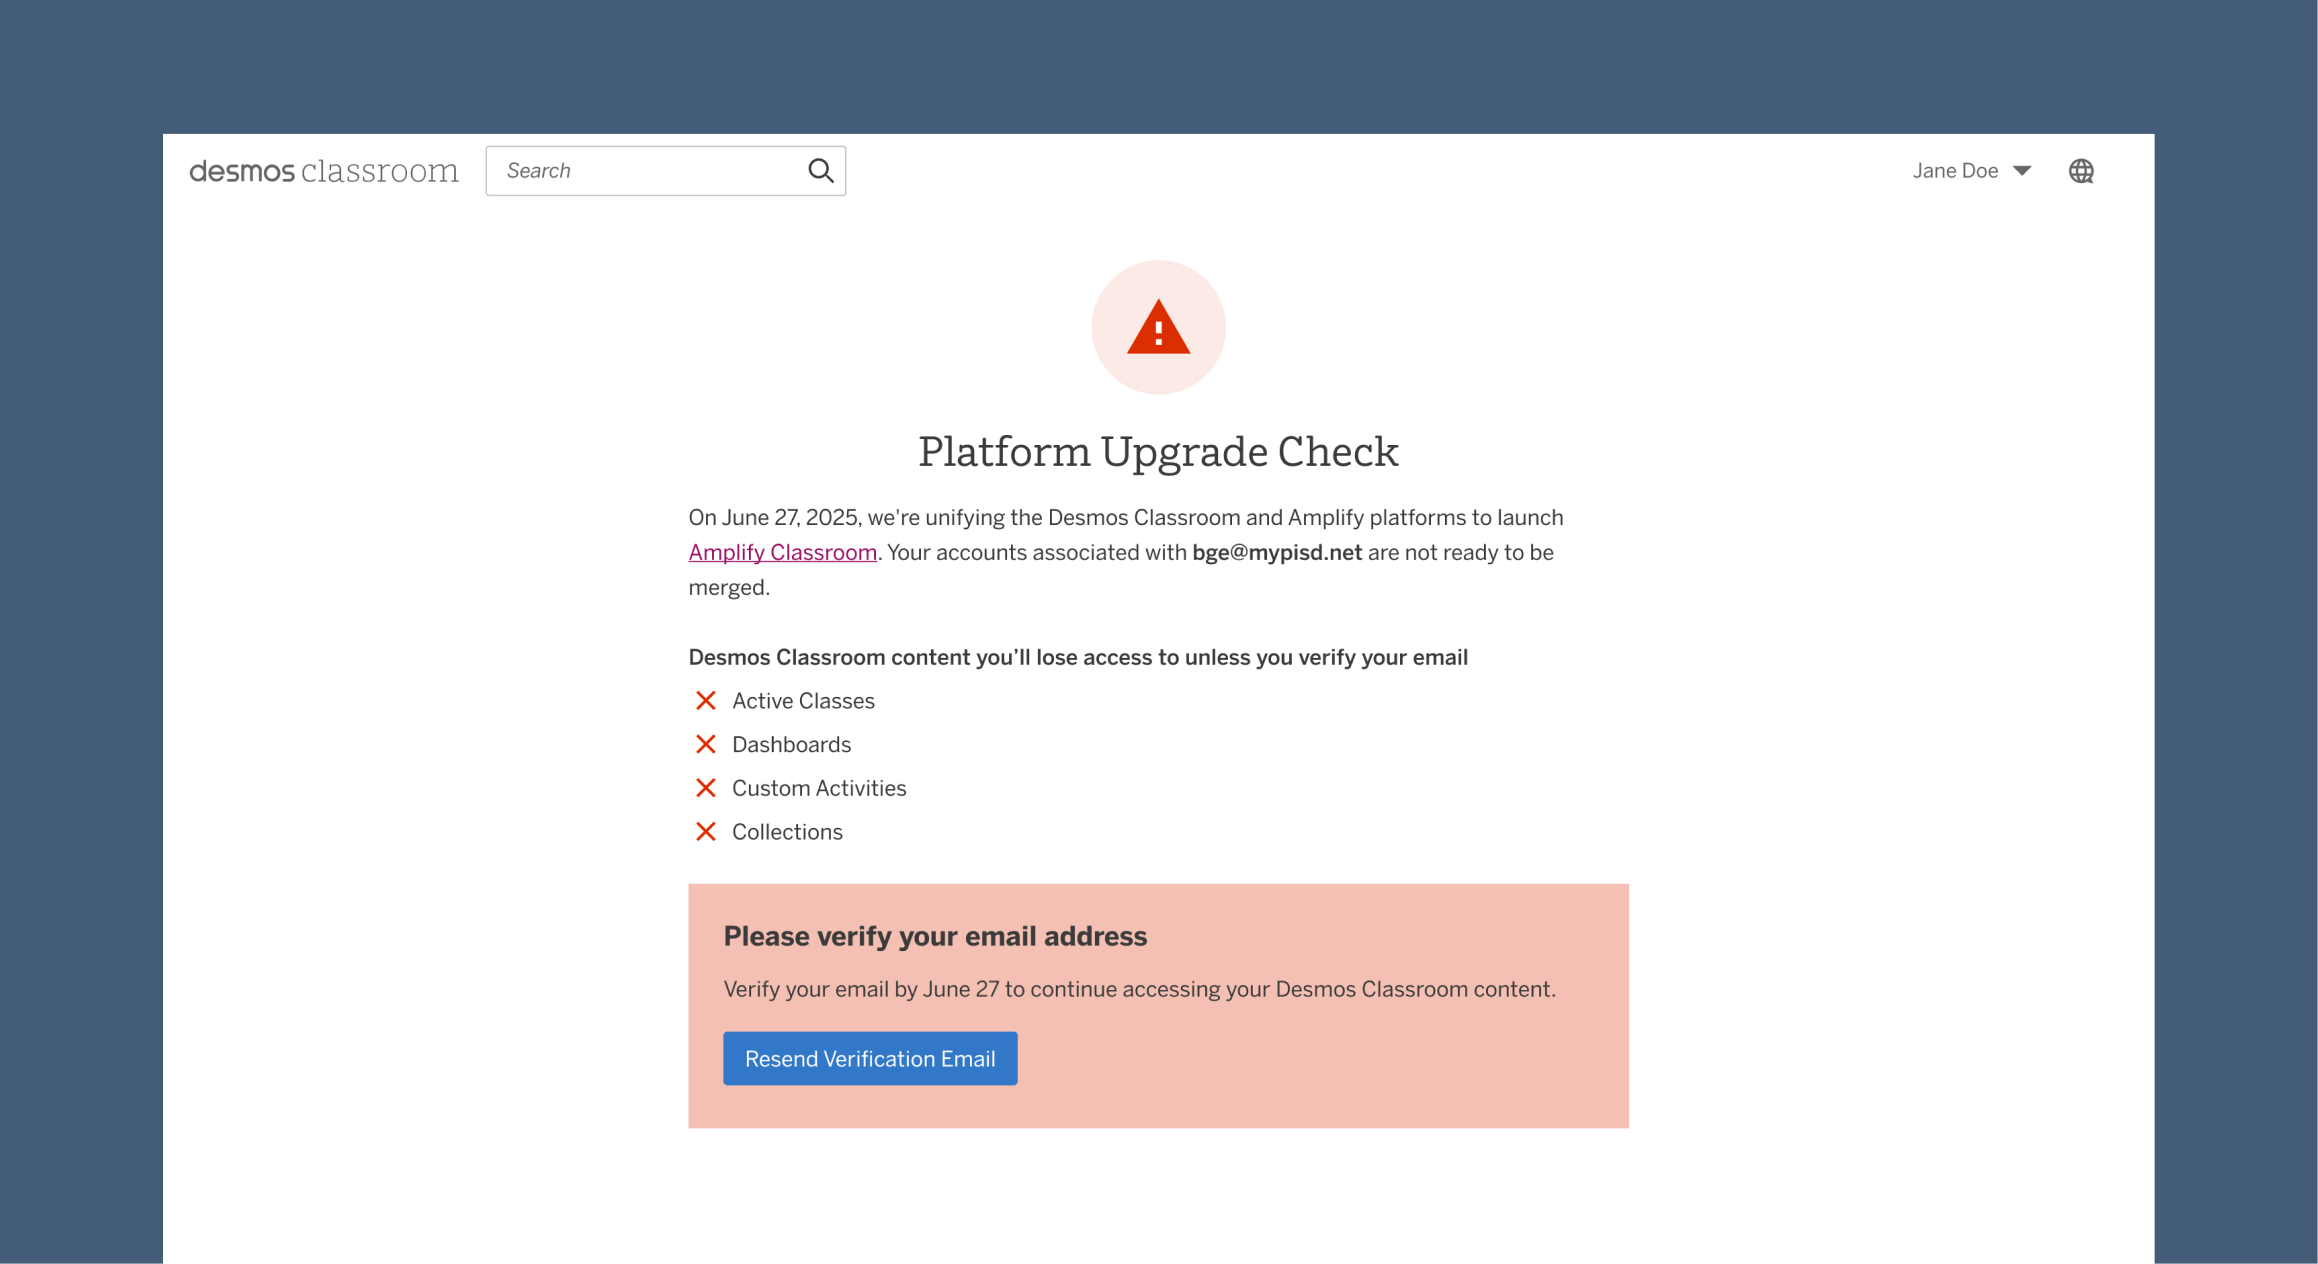
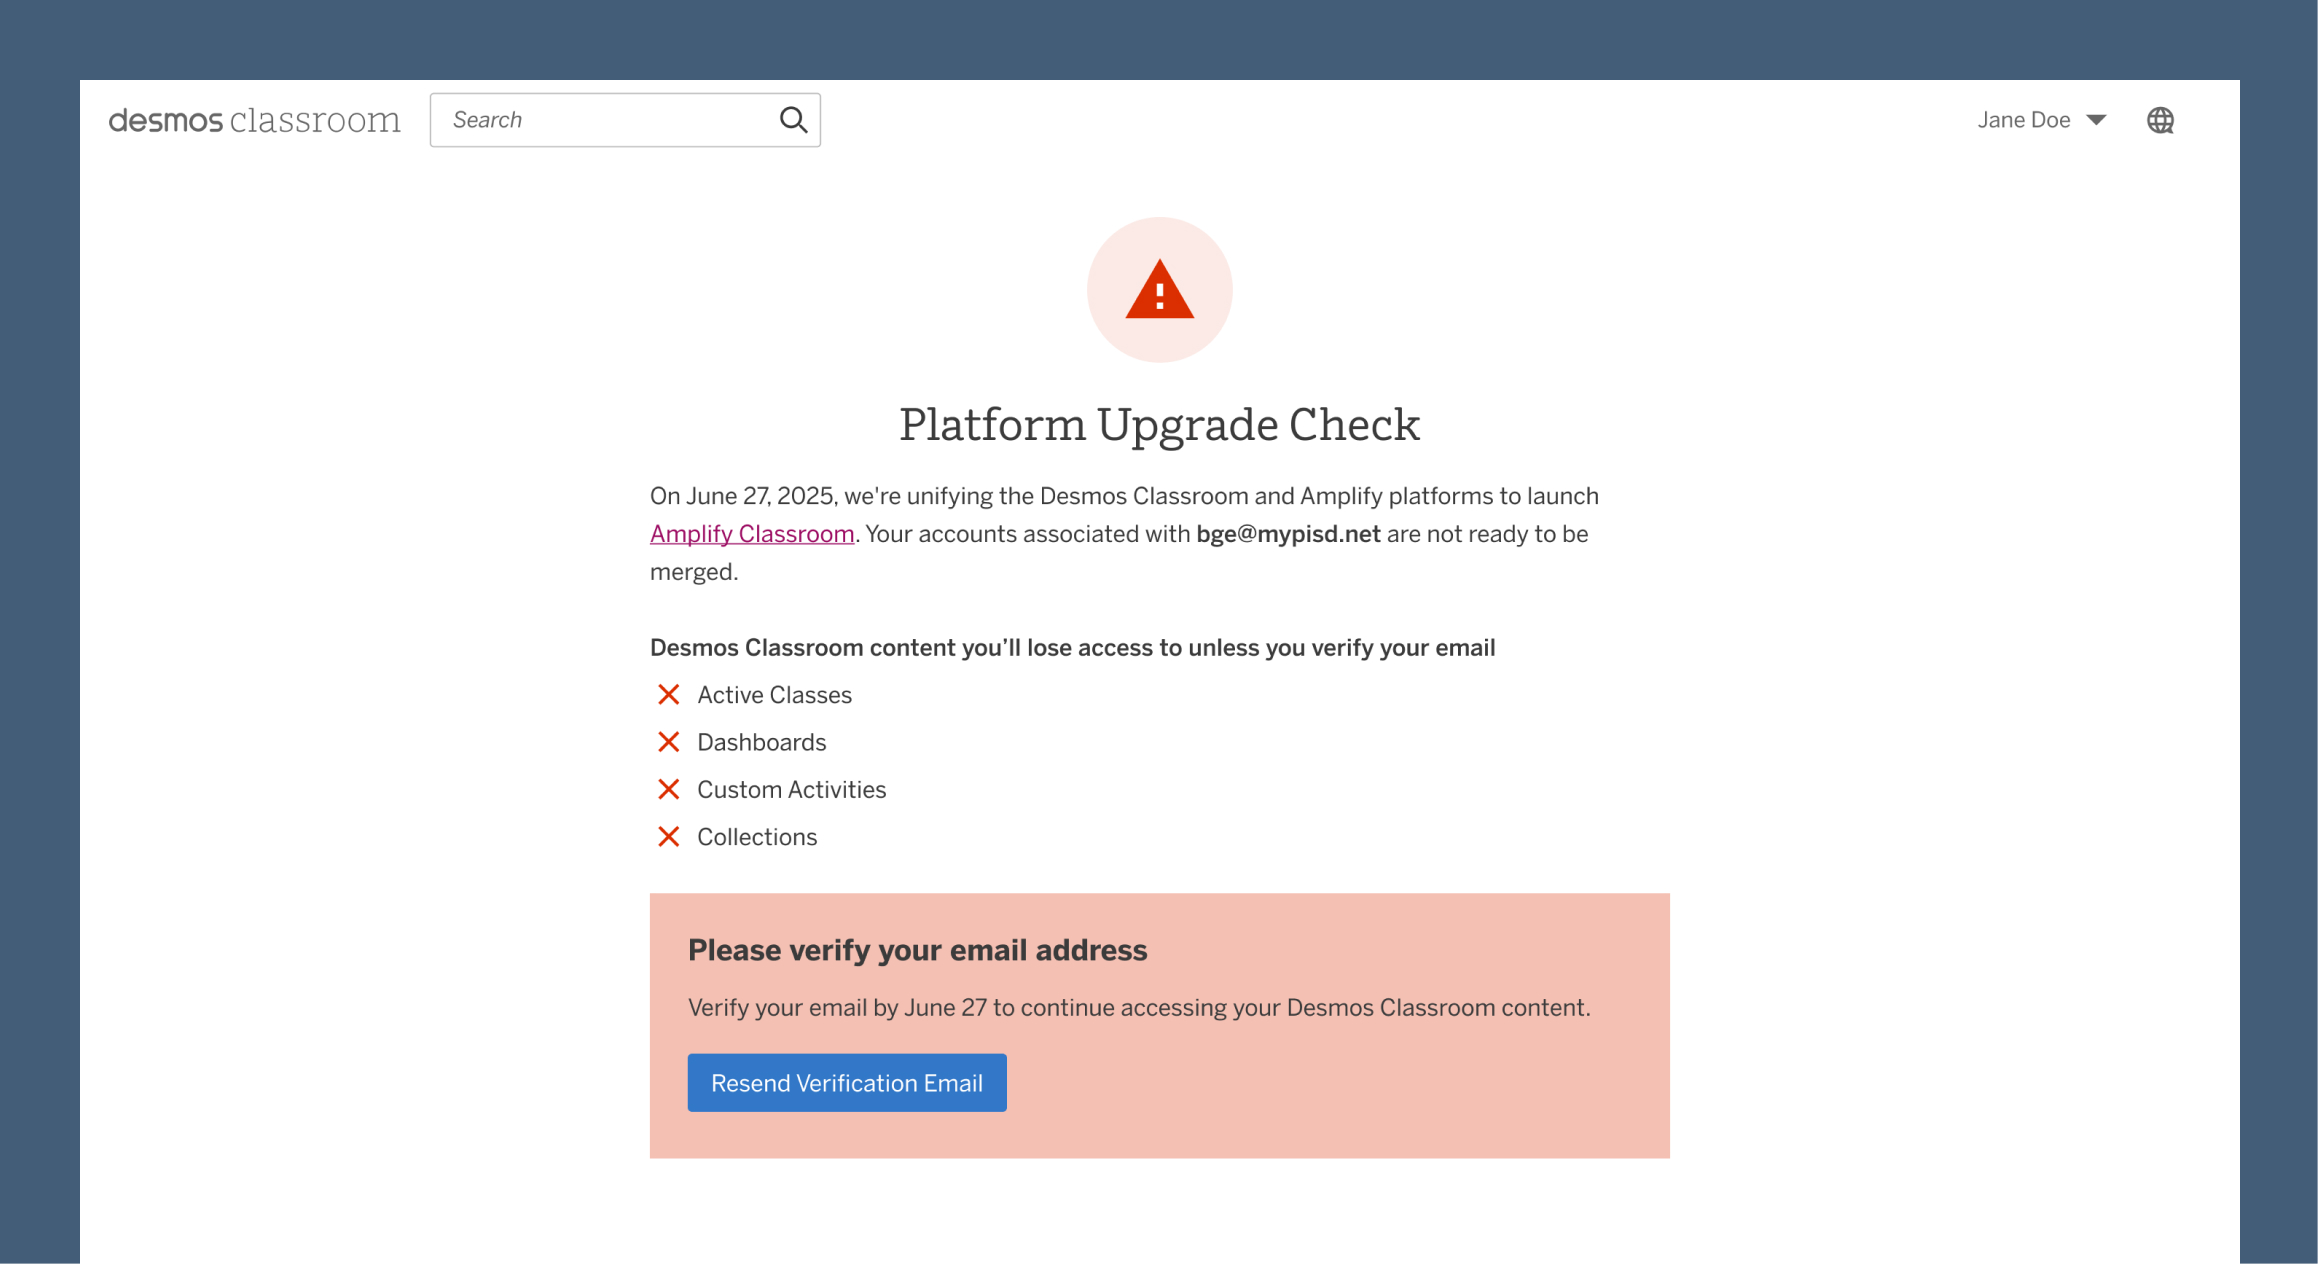
Update font and project images

Changed region(s): [[0.0311, 0.0617, 0.994, 1.0], [0.2796, 0.1543, 0.7455, 0.9256]]

diff --git a/app/page.module.css b/app/page.module.css
@@ -11,10 +11,9 @@
   --column-gap: 2rem;
 
   height: 100vh;
-  font-family: var(--font-geist-sans);
+  font-family: var(--font-mona-sans);
   background-color: var(--background);
   padding: 0;
-  overscroll-behavior: none;
   overflow: hidden;
 }
 
@@ -55,7 +54,6 @@
   flex-direction: column;
   gap: 1rem;
   padding: calc(var(--page-padding) + 0.5rem) var(--page-padding);
-  overscroll-behavior: contain;
   scrollbar-width: thin;
   scrollbar-color: var(--text-secondary) var(--background);
   background-color: var(--background);
@@ -89,7 +87,7 @@
 
 .greeting {
   font-size: 1.25rem;
-  font-weight: 600;
+  font-weight: 650;
   margin: 0;
   color: var(--text-primary);
 }
@@ -174,7 +172,7 @@
 
 .workCompany {
   color: var(--text-primary);
-  font-weight: 500;
+  font-weight: 550;
 }
 
 .workRole {
@@ -209,7 +207,6 @@
   height: 100%;
   overflow-y: auto;
   overflow-x: hidden;
-  overscroll-behavior: contain;
   position: relative;
   scrollbar-width: thin;
   scrollbar-color: var(--text-secondary) var(--background);
@@ -284,7 +281,7 @@
 
 .projectTitle {
   font-size: 1.125rem;
-  font-weight: 600;
+  font-weight: 650;
   margin: 0;
   color: var(--text-primary);
 }

diff --git a/app/components/RichContent.module.css b/app/components/RichContent.module.css
@@ -7,7 +7,7 @@
 /* Style headings that you'll use in your content */
 .richContent h1 {
   font-size: 1.75rem;
-  font-weight: 600;
+  font-weight: 650;
   margin: 2rem 0 1rem 0;
   color: var(--text-primary);
   line-height: 1.3;
@@ -15,7 +15,7 @@
 
 .richContent h2 {
   font-size: 1.5rem;
-  font-weight: 600;
+  font-weight: 650;
   margin: 1.5rem 0 0.75rem 0;
   color: var(--text-primary);
   line-height: 1.3;
@@ -23,7 +23,7 @@
 
 .richContent h3 {
   font-size: 1.25rem;
-  font-weight: 600;
+  font-weight: 650;
   margin: 1.25rem 0 0.5rem 0;
   color: var(--text-primary);
   line-height: 1.3;
@@ -31,7 +31,7 @@
 
 .richContent h4 {
   font-size: 1.125rem;
-  font-weight: 600;
+  font-weight: 650;
   margin: 1rem 0 0.5rem 0;
   color: var(--text-primary);
   line-height: 1.3;

diff --git a/app/layout.tsx b/app/layout.tsx
@@ -1,14 +1,9 @@
 import type { Metadata, Viewport } from "next";
-import { Geist, Geist_Mono } from "next/font/google";
+import { Mona_Sans } from "next/font/google";
 import "./globals.css";
 
-const geistSans = Geist({
-  variable: "--font-geist-sans",
-  subsets: ["latin"],
-});
-
-const geistMono = Geist_Mono({
-  variable: "--font-geist-mono",
+const monaSans = Mona_Sans({
+  variable: "--font-mona-sans",
   subsets: ["latin"],
 });
 
@@ -49,7 +44,7 @@ export default function RootLayout({
 }>) {
   return (
     <html lang="en">
-      <body className={`${geistSans.variable} ${geistMono.variable}`}>
+      <body className={monaSans.variable}>
         {children}
       </body>
     </html>

diff --git a/app/globals.css b/app/globals.css
@@ -14,13 +14,15 @@ html,
 body {
   max-width: 100vw;
   overflow-x: hidden;
-  overscroll-behavior: none;
 }
 
 body {
   color: var(--foreground);
   background: var(--background);
-  font-family: Arial, Helvetica, sans-serif;
+  font-family: var(--font-mona-sans), Arial, Helvetica, sans-serif;
+  font-weight: 450;
+  font-size: 1.125rem;
+  letter-spacing: 0.002em;
   -webkit-font-smoothing: antialiased;
   -moz-osx-font-smoothing: grayscale;
 }
@@ -37,7 +39,7 @@ a {
 }
 
 h1, h2, h3, h4, h5, h6 {
-  font-weight: 600;
+  font-weight: 650;
 }
 
 @media (prefers-color-scheme: dark) {

diff --git a/app/projects/[...slug]/page.module.css b/app/projects/[...slug]/page.module.css
@@ -14,7 +14,7 @@
 
 .title {
   font-size: 2.5rem;
-  font-weight: 600;
+  font-weight: 650;
   margin-bottom: 0.5rem;
   line-height: 1.2;
 }
@@ -74,7 +74,7 @@
 
 .caseStudy h2 {
   font-size: 2rem;
-  font-weight: 600;
+  font-weight: 650;
   margin-bottom: 1.5rem;
 }
 
@@ -94,7 +94,7 @@
 
 .imageGallery h2 {
   font-size: 2rem;
-  font-weight: 600;
+  font-weight: 650;
   margin-bottom: 1.5rem;
 }
 
@@ -126,7 +126,7 @@
   font-size: 1.125rem;
   color: #0066cc;
   text-decoration: none;
-  font-weight: 500;
+  font-weight: 550;
 }
 
 .projectLink:hover {

diff --git a/app/projects/[slug]/page.module.css b/app/projects/[slug]/page.module.css
@@ -14,7 +14,7 @@
 
 .title {
   font-size: 2.5rem;
-  font-weight: 600;
+  font-weight: 650;
   margin-bottom: 0.5rem;
   line-height: 1.2;
 }
@@ -74,7 +74,7 @@
 
 .caseStudy h2 {
   font-size: 2rem;
-  font-weight: 600;
+  font-weight: 650;
   margin-bottom: 1.5rem;
 }
 
@@ -94,7 +94,7 @@
 
 .imageGallery h2 {
   font-size: 2rem;
-  font-weight: 600;
+  font-weight: 650;
   margin-bottom: 1.5rem;
 }
 
@@ -126,7 +126,7 @@
   font-size: 1.125rem;
   color: #0066cc;
   text-decoration: none;
-  font-weight: 500;
+  font-weight: 550;
 }
 
 .projectLink:hover {

diff --git a/app/about/page.module.css b/app/about/page.module.css
@@ -6,7 +6,7 @@
   --border-color: #e0e0e0;
 
   min-height: 100vh;
-  font-family: var(--font-geist-sans);
+  font-family: var(--font-mona-sans);
   background-color: var(--background);
   padding: 2rem;
 }
@@ -37,7 +37,7 @@
 
 .title {
   font-size: 2.5rem;
-  font-weight: 600;
+  font-weight: 650;
   margin: 0;
   color: var(--text-primary);
   line-height: 1.2;
@@ -51,7 +51,7 @@
 
 .sectionTitle {
   font-size: 1.25rem;
-  font-weight: 600;
+  font-weight: 650;
   margin: 0;
   color: var(--text-primary);
 }

diff --git a/app/projects/page.module.css b/app/projects/page.module.css
@@ -11,7 +11,7 @@
 
 .title {
   font-size: 3rem;
-  font-weight: 600;
+  font-weight: 650;
   margin-bottom: 0.5rem;
   line-height: 1.2;
 }
@@ -70,7 +70,7 @@
 
 .projectTitle {
   font-size: 1.5rem;
-  font-weight: 600;
+  font-weight: 650;
   margin-bottom: 0.5rem;
   line-height: 1.3;
 }

diff --git a/app/components/ExpandableProjectCard.module.css b/app/components/ExpandableProjectCard.module.css
@@ -179,7 +179,7 @@
 
 .projectTitle {
   font-size: 1.25rem;
-  font-weight: 600;
+  font-weight: 650;
   margin: 0;
   color: var(--text-primary);
 }
